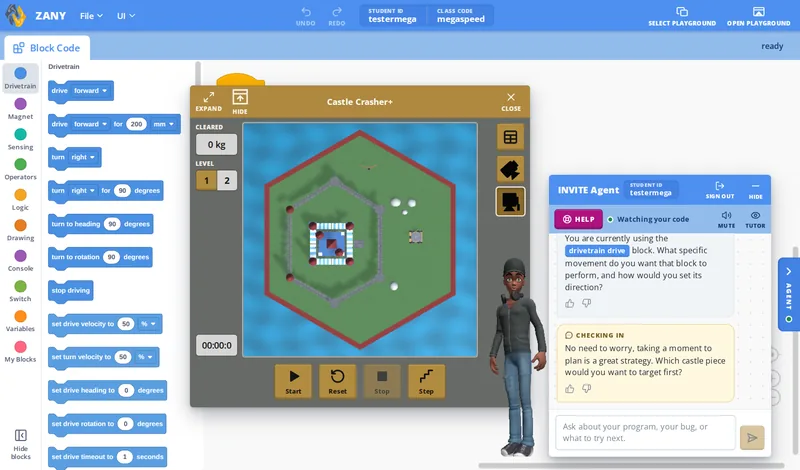
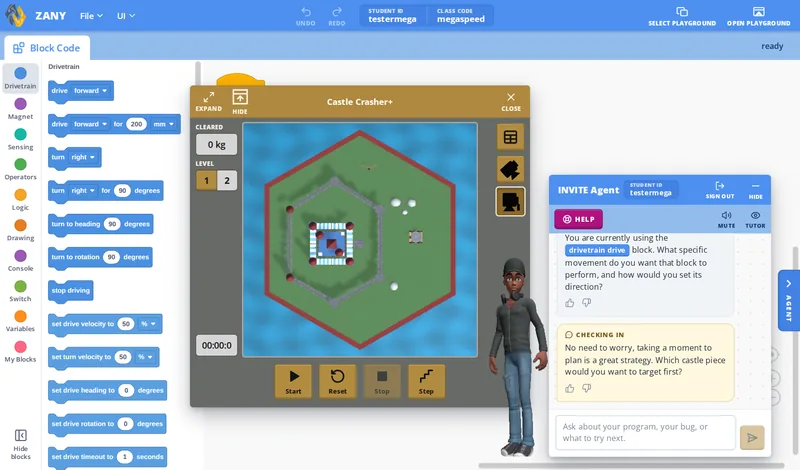
Retake the INVITE Agent screenshot without the code status (#10)
The agent dropped its "Watching your code" line and the green dot on its tab, so the photo is
retaken in the same scene to match, with the cache key moved to v=12.

Closes #9

diff --git a/public/index.html b/public/index.html
@@ -60,7 +60,7 @@
 
     <article class="tool" aria-labelledby="agent-title">
       <figure class="tool-photo">
-        <img src="/assets/img/photos/agent-1200.webp?v=11" srcset="/assets/img/photos/agent-800.webp?v=11 800w, /assets/img/photos/agent-1200.webp?v=11 1200w, /assets/img/photos/agent-1600.webp?v=11 1600w" sizes="(max-width: 767px) calc(100vw - 42px), 585px" width="1600" height="941" alt="ZANY with the Castle Crasher+ playground open, a 3D animated tutor, and the INVITE Agent chat beside its tab on the screen's edge" loading="lazy">
+        <img src="/assets/img/photos/agent-1200.webp?v=12" srcset="/assets/img/photos/agent-800.webp?v=12 800w, /assets/img/photos/agent-1200.webp?v=12 1200w, /assets/img/photos/agent-1600.webp?v=12 1600w" sizes="(max-width: 767px) calc(100vw - 42px), 585px" width="1600" height="941" alt="ZANY with the Castle Crasher+ playground open, a 3D animated tutor, and the INVITE Agent chat beside its tab on the screen's edge" loading="lazy">
       </figure>
       <div class="tool-body">
         <div class="tool-head">
